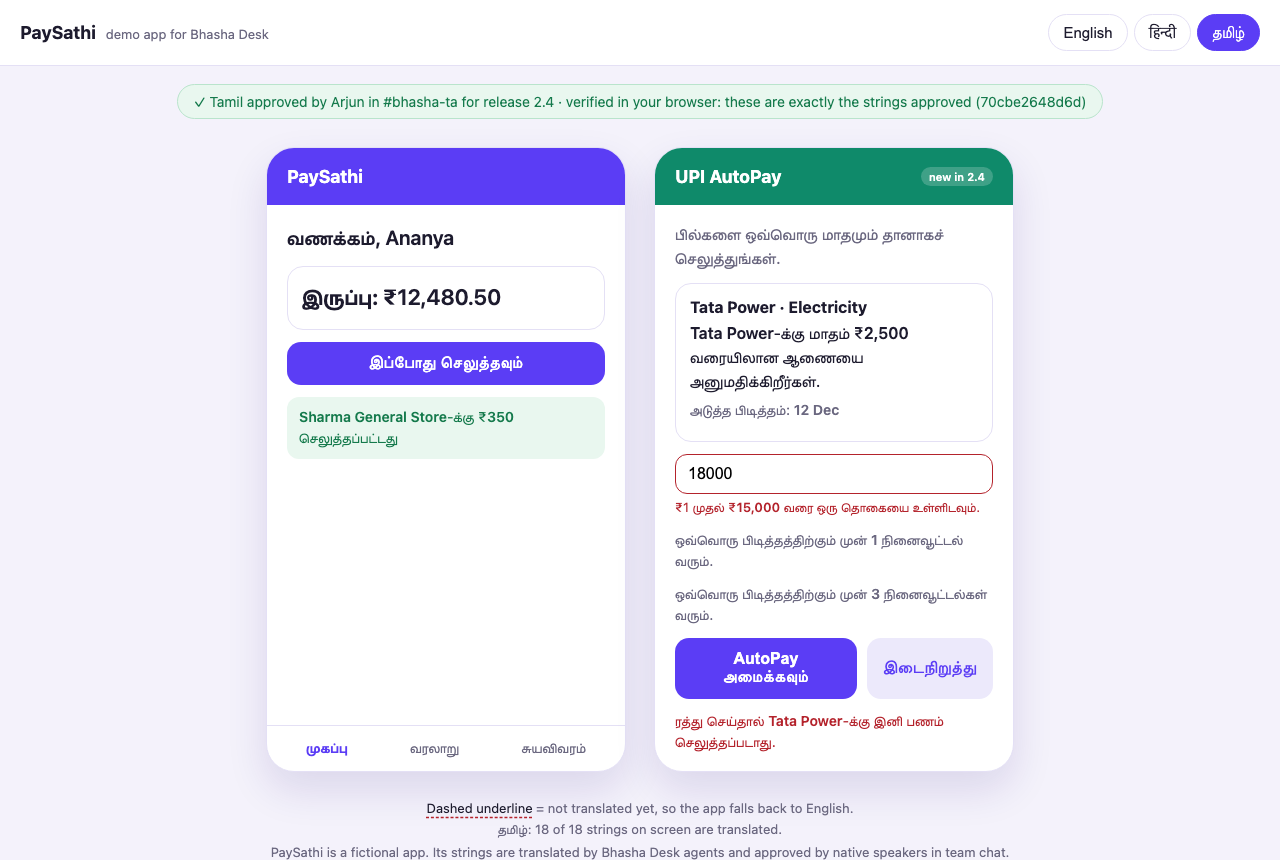
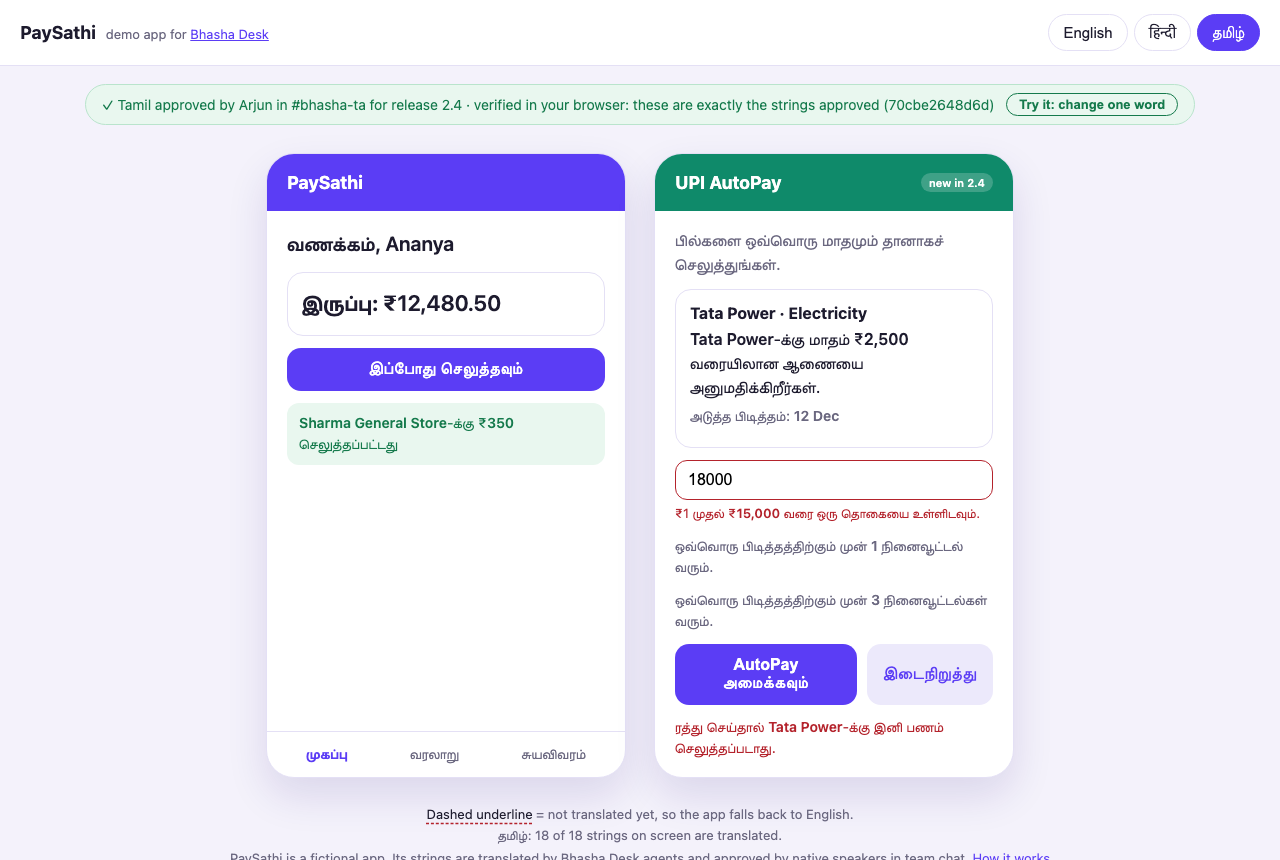
MIT license; the app lets anyone try breaking an approval
- LICENSE (MIT, Yash Soni and Rohan Jaiswal), declared in pyproject.
- When a language's approval verifies, the app offers "Try it: change one
  word". It edits one string in memory, the check turns red ("this approval
  no longer counts"), and "Undo the change" restores it. ?try=1 does the
  edit on load, so that state has a link of its own.
- The header and footer link to the project.

diff --git a/demo-app/app.js b/demo-app/app.js
@@ -37,11 +37,27 @@ async function sha256(text) {
   return "sha256:" + Array.from(new Uint8Array(hash), (b) => b.toString(16).padStart(2, "0")).join("");
 }
 
+// "Try it": change one approved string in memory and watch the check catch it.
+const TRY_KEY = "autopay.pause_cta";
+const tampered = {};
+// ?try=1 makes the change on load, so the "after an edit" state has a link of its own.
+let autoTry = new URLSearchParams(location.search).get("try") === "1";
+
+function button(label, onClick) {
+  const b = document.createElement("button");
+  b.type = "button";
+  b.className = "approval-action";
+  b.textContent = label;
+  b.addEventListener("click", onClick);
+  return b;
+}
+
 async function showApproval(code, strings) {
   const el = document.getElementById("approval");
   const data = await loadApprovals();
   const a = data.languages && data.languages[code];
   el.className = "approval";
+  el.replaceChildren();
   el.hidden = code === "en" || !a;
   if (el.hidden) return;
   let verified = null;
@@ -50,15 +66,37 @@ async function showApproval(code, strings) {
   } catch (_) {
     // No WebCrypto outside a secure context (https or localhost): say who approved, without the check.
   }
+  const text = document.createElement("span");
+  el.append(text);
   if (verified === false) {
     el.classList.add("changed");
-    el.textContent = `⚠ These ${a.name} strings changed after ${a.approved_by} approved them for release ${data.release}.`;
+    text.textContent = `⚠ These ${a.name} strings changed after ${a.approved_by} approved them for release ${data.release}, so this approval no longer counts.`;
+    if (tampered[code] !== undefined) {
+      el.append(button("Undo the change", () => {
+        strings[TRY_KEY] = tampered[code];
+        delete tampered[code];
+        show(code);
+      }));
+    }
     return;
   }
   el.classList.add("ok");
   const where = a.approved_in ? ` in #${a.approved_in}` : "";
-  el.textContent = `✓ ${a.name} approved by ${a.approved_by}${where} for release ${data.release}` +
+  text.textContent = `✓ ${a.name} approved by ${a.approved_by}${where} for release ${data.release}` +
     (verified ? ` · verified in your browser: these are exactly the strings approved (${a.strings_sha256.slice(7, 19)})` : "");
+  if (verified && typeof strings[TRY_KEY] === "string") {
+    const tamper = () => {
+      tampered[code] = strings[TRY_KEY];
+      strings[TRY_KEY] = `${strings[TRY_KEY]}!`;
+      show(code);
+    };
+    if (autoTry) {
+      autoTry = false;
+      tamper();
+      return;
+    }
+    el.append(button("Try it: change one word", tamper));
+  }
 }
 
 async function load(code) {

diff --git a/demo-app/index.html b/demo-app/index.html
@@ -8,7 +8,7 @@
 </head>
 <body>
   <header class="toolbar">
-    <div class="brand">PaySathi <span class="tag">demo app for Bhasha Desk</span></div>
+    <div class="brand">PaySathi <span class="tag">demo app for <a href="https://github.com/YashSoni998265/bhasha-desk" target="_blank" rel="noopener">Bhasha Desk</a></span></div>
     <nav class="langs" id="langs" aria-label="Language"></nav>
   </header>
 
@@ -59,7 +59,7 @@
   <footer class="legend">
     <span><span class="sample missing">Dashed underline</span> = not translated yet, so the app falls back to English.</span>
     <span id="coverage"></span>
-    <span>PaySathi is a fictional app. Its strings are translated by Bhasha Desk agents and approved by native speakers in team chat.</span>
+    <span>PaySathi is a fictional app. Its strings are translated by Bhasha Desk agents and approved by native speakers in team chat. <a href="https://github.com/YashSoni998265/bhasha-desk" target="_blank" rel="noopener">How it works</a></span>
   </footer>
 
   <script src="app.js"></script>

diff --git a/demo-app/styles.css b/demo-app/styles.css
@@ -75,3 +75,11 @@ button.secondary { background: #ece9fb; color: var(--brand); }
 }
 .approval.ok { background: #e9f7ef; color: var(--ok); border-color: #b9e4cc; }
 .approval.changed { background: #fdecec; color: var(--warn); border-color: #f3b9bd; }
+.approval { display: flex; flex-wrap: wrap; gap: 8px 12px; align-items: center; justify-content: center; }
+.approval[hidden] { display: none; }
+.approval-action {
+  border: 1px solid currentColor; background: transparent; color: inherit; border-radius: 999px;
+  padding: 3px 12px; font-size: 13px; font-weight: 600; cursor: pointer;
+}
+.approval-action:hover { background: rgba(0, 0, 0, 0.05); }
+.tag a, .legend a { color: var(--brand); }
